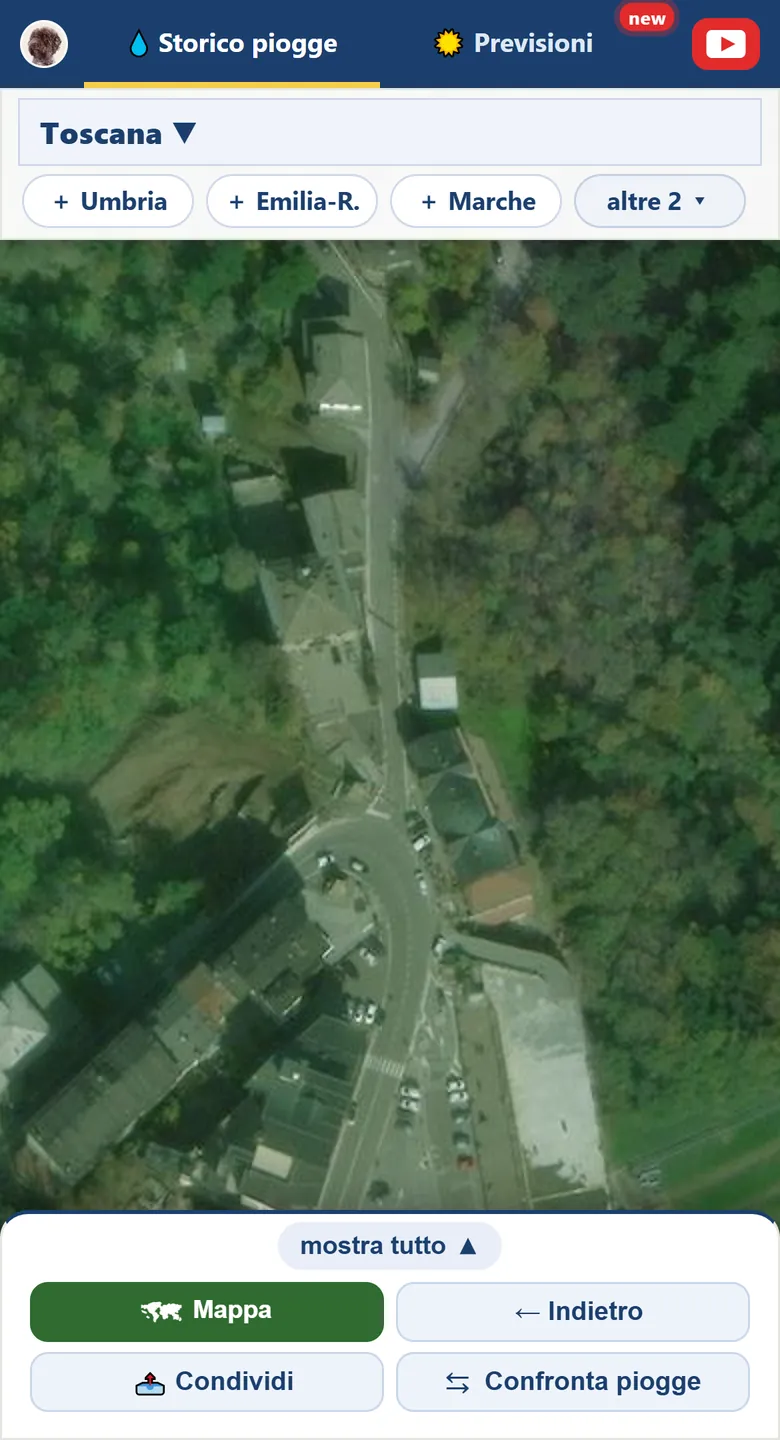
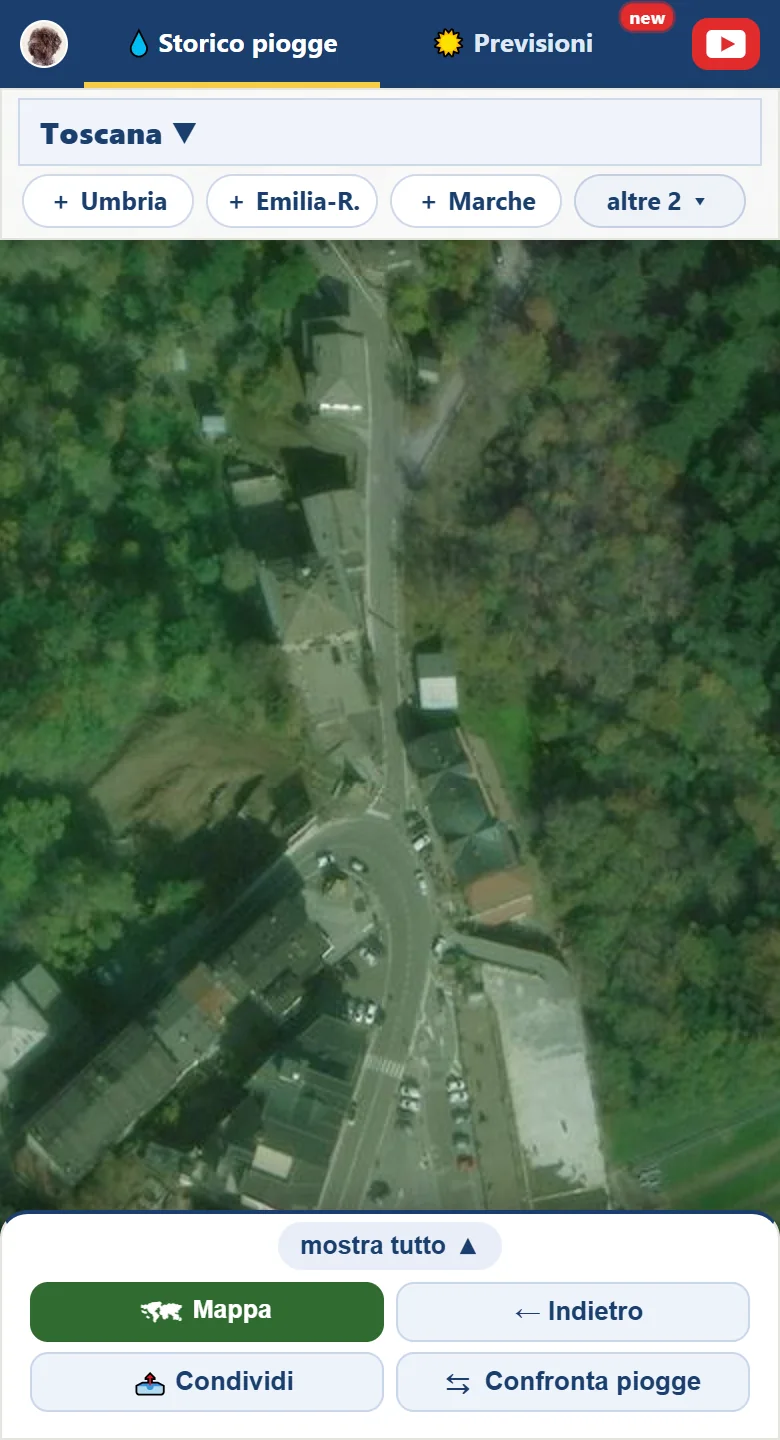
telefono: satellite a 2x (piu' nitido: a 3x la mappa stira le tessere), frames-v fuori dal repo, DPR nello scatto

diff --git a/studio-apple/home-v2/index.html b/studio-apple/home-v2/index.html
@@ -402,7 +402,8 @@ footer .copy { margin-top: 24px; padding-top: 16px; border-top: 1px solid var(--
   <figure class="con-tel su dopo ritaglio">
     <picture>
       <!-- al telefono la mappa com'e' sul telefono (scatto 390x720 a 3x) -->
-      <source media="(max-width: 734px)" srcset="../film/foto/tel-satellite-780.webp 780w, ../film/foto/tel-satellite-1170.webp 1170w" sizes="calc(100vw - 24px)" width="1170" height="2160">
+      <!-- satellite: scatto a 2x e non a 3x, la mappa stira le tessere a 3x e la foto viene morbida -->
+      <source media="(max-width: 734px)" srcset="../film/foto/tel-satellite-780.webp 780w" sizes="calc(100vw - 24px)" width="780" height="1440">
       <img src="../film/foto/satellite-vera-1440.webp"
          srcset="../film/foto/satellite-vera-1440.webp 1440w, ../film/foto/satellite-vera-2880.webp 2880w"
          sizes="(max-width: 734px) calc(100vw - 24px), min(1136px, calc(100vw - 44px))" width="2880" height="1800" loading="lazy" style="object-position: 64% 50%"

diff --git a/studio-apple/film/tools/scatta-mappa-vera.js b/studio-apple/film/tools/scatta-mappa-vera.js
@@ -23,7 +23,7 @@ const puppeteer = require('D:/video youtube/claudio/grafiche-social/node_modules
   // TELEFONO=1: la mappa com'e' sul telefono (390x720 a 3x, tocco, user agent da telefono), per le foto verticali
   if (process.env.TELEFONO) {
     await p.setUserAgent('Mozilla/5.0 (Linux; Android 14; Pixel 8) AppleWebKit/537.36 (KHTML, like Gecko) Chrome/130.0 Mobile Safari/537.36');
-    await p.setViewport({ width: +(process.env.LARGO || 390), height: +(process.env.ALTO || 720), deviceScaleFactor: 3, isMobile: true, hasTouch: true });
+    await p.setViewport({ width: +(process.env.LARGO || 390), height: +(process.env.ALTO || 720), deviceScaleFactor: +(process.env.DPR || 3), isMobile: true, hasTouch: true });
   } else await p.setViewport({ width: 1440, height: 900, deviceScaleFactor: 2 });
   await p.goto(url, { waitUntil: 'networkidle2', timeout: 120000 });
   // solo nello scatto: con 9 regioni le etichette sotto «Indietro» non ci stanno su una riga, si va a capo
